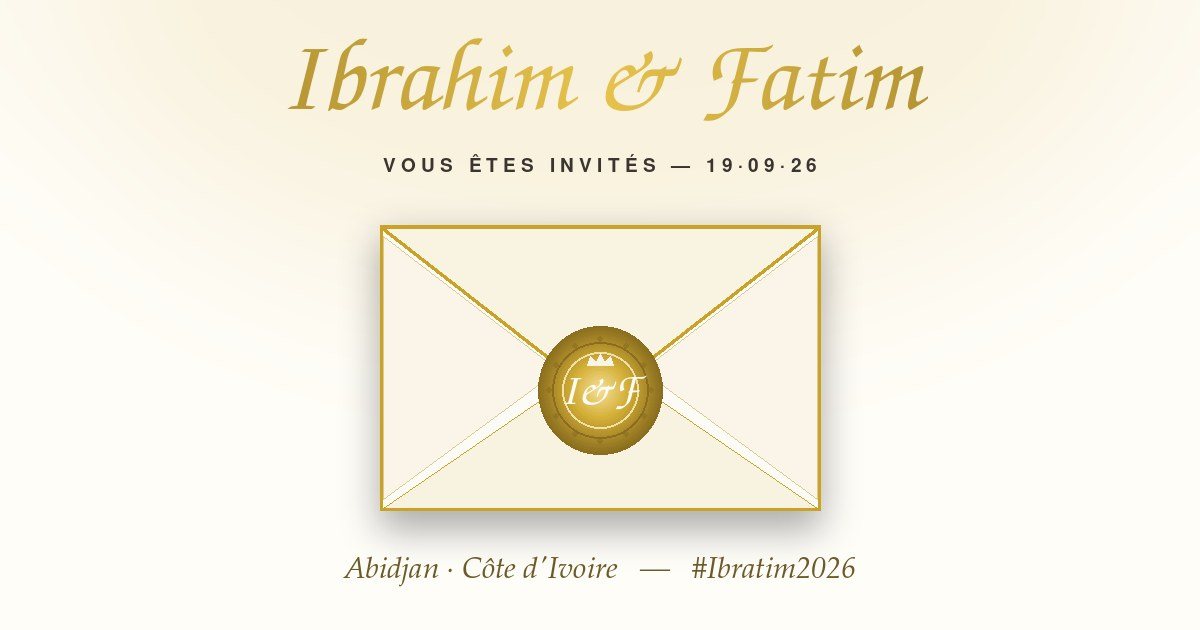
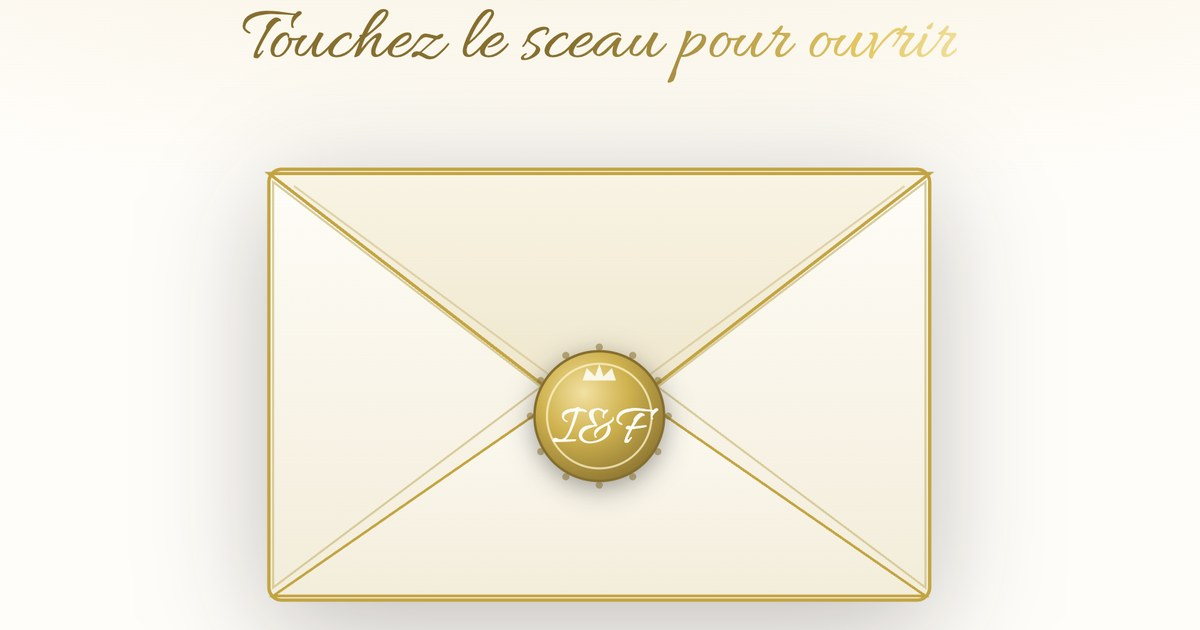
URL ibratim2026.github.io: og tags, miniature de partage, QR mis a jour (v10)

Changed region(s): [[0.185, 0.2413, 0.8017, 1.0], [0.185, 0.0, 0.8017, 0.2111]]

diff --git a/index.html b/index.html
@@ -8,11 +8,11 @@
 <!-- Aperçu lors du partage (réseaux sociaux / messageries) -->
 <meta property="og:title" content="Ibrahim &amp; Fatim — 19.09.26">
 <meta property="og:description" content="Vous êtes invités · Abidjan, Côte d'Ivoire · #Ibratim2026">
-<meta property="og:image" content="https://williamcarrierlive-pelion.github.io/ibratim2026/og-image.jpg">
+<meta property="og:image" content="https://ibratim2026.github.io/og-image.jpg">
 <meta property="og:image:width" content="1200">
 <meta property="og:image:height" content="630">
 <meta property="og:type" content="website">
-<meta property="og:url" content="https://williamcarrierlive-pelion.github.io/ibratim2026/">
+<meta property="og:url" content="https://ibratim2026.github.io/">
 <meta name="twitter:card" content="summary_large_image">
 <link rel="preconnect" href="https://fonts.googleapis.com">
 <link href="https://fonts.googleapis.com/css2?family=Allura&family=Cormorant+Garamond:ital,wght@0,400;0,500;0,600;1,400;1,500&family=Montserrat:wght@300;400;500;600&display=swap" rel="stylesheet">
@@ -628,4 +628,4 @@
 </script>
 </body>
 </html>
-<!-- v9 -->
+<!-- v10 -->

diff --git a/cartes.html b/cartes.html
@@ -150,7 +150,7 @@ Activer «&nbsp;Graphiques d'arrière-plan&nbsp;» et marges «&nbsp;Aucune&nbsp
 
   <div class="rsvp-zone">
     <div class="qr">
-      <svg viewBox="0 0 33 33" width="100%" height="100%" shape-rendering="crispEdges"><rect width="33" height="33" fill="#fff"/><path d="M0 0h1v1h-1zM1 0h1v1h-1zM2 0h1v1h-1zM3 0h1v1h-1zM4 0h1v1h-1zM5 0h1v1h-1zM6 0h1v1h-1zM9 0h1v1h-1zM12 0h1v1h-1zM13 0h1v1h-1zM16 0h1v1h-1zM19 0h1v1h-1zM20 0h1v1h-1zM23 0h1v1h-1zM26 0h1v1h-1zM27 0h1v1h-1zM28 0h1v1h-1zM29 0h1v1h-1zM30 0h1v1h-1zM31 0h1v1h-1zM32 0h1v1h-1zM0 1h1v1h-1zM6 1h1v1h-1zM9 1h1v1h-1zM13 1h1v1h-1zM14 1h1v1h-1zM15 1h1v1h-1zM16 1h1v1h-1zM18 1h1v1h-1zM20 1h1v1h-1zM21 1h1v1h-1zM26 1h1v1h-1zM32 1h1v1h-1zM0 2h1v1h-1zM2 2h1v1h-1zM3 2h1v1h-1zM4 2h1v1h-1zM6 2h1v1h-1zM8 2h1v1h-1zM10 2h1v1h-1zM12 2h1v1h-1zM13 2h1v1h-1zM15 2h1v1h-1zM16 2h1v1h-1zM18 2h1v1h-1zM20 2h1v1h-1zM21 2h1v1h-1zM22 2h1v1h-1zM24 2h1v1h-1zM26 2h1v1h-1zM28 2h1v1h-1zM29 2h1v1h-1zM30 2h1v1h-1zM32 2h1v1h-1zM0 3h1v1h-1zM2 3h1v1h-1zM3 3h1v1h-1zM4 3h1v1h-1zM6 3h1v1h-1zM8 3h1v1h-1zM10 3h1v1h-1zM11 3h1v1h-1zM12 3h1v1h-1zM14 3h1v1h-1zM15 3h1v1h-1zM16 3h1v1h-1zM17 3h1v1h-1zM18 3h1v1h-1zM20 3h1v1h-1zM22 3h1v1h-1zM23 3h1v1h-1zM24 3h1v1h-1zM26 3h1v1h-1zM28 3h1v1h-1zM29 3h1v1h-1zM30 3h1v1h-1zM32 3h1v1h-1zM0 4h1v1h-1zM2 4h1v1h-1zM3 4h1v1h-1zM4 4h1v1h-1zM6 4h1v1h-1zM8 4h1v1h-1zM9 4h1v1h-1zM11 4h1v1h-1zM12 4h1v1h-1zM13 4h1v1h-1zM15 4h1v1h-1zM19 4h1v1h-1zM21 4h1v1h-1zM23 4h1v1h-1zM26 4h1v1h-1zM28 4h1v1h-1zM29 4h1v1h-1zM30 4h1v1h-1zM32 4h1v1h-1zM0 5h1v1h-1zM6 5h1v1h-1zM8 5h1v1h-1zM9 5h1v1h-1zM12 5h1v1h-1zM14 5h1v1h-1zM15 5h1v1h-1zM16 5h1v1h-1zM17 5h1v1h-1zM18 5h1v1h-1zM21 5h1v1h-1zM26 5h1v1h-1zM32 5h1v1h-1zM0 6h1v1h-1zM1 6h1v1h-1zM2 6h1v1h-1zM3 6h1v1h-1zM4 6h1v1h-1zM5 6h1v1h-1zM6 6h1v1h-1zM8 6h1v1h-1zM10 6h1v1h-1zM12 6h1v1h-1zM14 6h1v1h-1zM16 6h1v1h-1zM18 6h1v1h-1zM20 6h1v1h-1zM22 6h1v1h-1zM24 6h1v1h-1zM26 6h1v1h-1zM27 6h1v1h-1zM28 6h1v1h-1zM29 6h1v1h-1zM30 6h1v1h-1zM31 6h1v1h-1zM32 6h1v1h-1zM8 7h1v1h-1zM9 7h1v1h-1zM11 7h1v1h-1zM12 7h1v1h-1zM15 7h1v1h-1zM18 7h1v1h-1zM19 7h1v1h-1zM21 7h1v1h-1zM22 7h1v1h-1zM23 7h1v1h-1zM0 8h1v1h-1zM2 8h1v1h-1zM3 8h1v1h-1zM4 8h1v1h-1zM5 8h1v1h-1zM6 8h1v1h-1zM9 8h1v1h-1zM10 8h1v1h-1zM11 8h1v1h-1zM13 8h1v1h-1zM14 8h1v1h-1zM15 8h1v1h-1zM17 8h1v1h-1zM22 8h1v1h-1zM23 8h1v1h-1zM24 8h1v1h-1zM26 8h1v1h-1zM27 8h1v1h-1zM28 8h1v1h-1zM29 8h1v1h-1zM30 8h1v1h-1zM2 9h1v1h-1zM5 9h1v1h-1zM8 9h1v1h-1zM9 9h1v1h-1zM11 9h1v1h-1zM12 9h1v1h-1zM16 9h1v1h-1zM18 9h1v1h-1zM19 9h1v1h-1zM20 9h1v1h-1zM21 9h1v1h-1zM23 9h1v1h-1zM26 9h1v1h-1zM27 9h1v1h-1zM29 9h1v1h-1zM30 9h1v1h-1zM32 9h1v1h-1zM1 10h1v1h-1zM2 10h1v1h-1zM3 10h1v1h-1zM4 10h1v1h-1zM6 10h1v1h-1zM7 10h1v1h-1zM10 10h1v1h-1zM12 10h1v1h-1zM15 10h1v1h-1zM17 10h1v1h-1zM18 10h1v1h-1zM20 10h1v1h-1zM24 10h1v1h-1zM25 10h1v1h-1zM28 10h1v1h-1zM30 10h1v1h-1zM1 11h1v1h-1zM4 11h1v1h-1zM5 11h1v1h-1zM8 11h1v1h-1zM9 11h1v1h-1zM14 11h1v1h-1zM15 11h1v1h-1zM18 11h1v1h-1zM21 11h1v1h-1zM25 11h1v1h-1zM28 11h1v1h-1zM29 11h1v1h-1zM30 11h1v1h-1zM32 11h1v1h-1zM0 12h1v1h-1zM1 12h1v1h-1zM5 12h1v1h-1zM6 12h1v1h-1zM7 12h1v1h-1zM8 12h1v1h-1zM9 12h1v1h-1zM10 12h1v1h-1zM12 12h1v1h-1zM15 12h1v1h-1zM17 12h1v1h-1zM18 12h1v1h-1zM19 12h1v1h-1zM20 12h1v1h-1zM22 12h1v1h-1zM23 12h1v1h-1zM24 12h1v1h-1zM25 12h1v1h-1zM28 12h1v1h-1zM29 12h1v1h-1zM31 12h1v1h-1zM32 12h1v1h-1zM3 13h1v1h-1zM4 13h1v1h-1zM9 13h1v1h-1zM10 13h1v1h-1zM11 13h1v1h-1zM14 13h1v1h-1zM15 13h1v1h-1zM16 13h1v1h-1zM17 13h1v1h-1zM19 13h1v1h-1zM22 13h1v1h-1zM23 13h1v1h-1zM24 13h1v1h-1zM26 13h1v1h-1zM29 13h1v1h-1zM31 13h1v1h-1zM32 13h1v1h-1zM2 14h1v1h-1zM6 14h1v1h-1zM8 14h1v1h-1zM11 14h1v1h-1zM12 14h1v1h-1zM14 14h1v1h-1zM20 14h1v1h-1zM21 14h1v1h-1zM22 14h1v1h-1zM25 14h1v1h-1zM26 14h1v1h-1zM27 14h1v1h-1zM31 14h1v1h-1zM1 15h1v1h-1zM5 15h1v1h-1zM8 15h1v1h-1zM9 15h1v1h-1zM11 15h1v1h-1zM13 15h1v1h-1zM14 15h1v1h-1zM16 15h1v1h-1zM18 15h1v1h-1zM20 15h1v1h-1zM21 15h1v1h-1zM22 15h1v1h-1zM23 15h1v1h-1zM25 15h1v1h-1zM26 15h1v1h-1zM27 15h1v1h-1zM28 15h1v1h-1zM29 15h1v1h-1zM30 15h1v1h-1zM0 16h1v1h-1zM6 16h1v1h-1zM7 16h1v1h-1zM8 16h1v1h-1zM10 16h1v1h-1zM12 16h1v1h-1zM13 16h1v1h-1zM14 16h1v1h-1zM16 16h1v1h-1zM17 16h1v1h-1zM19 16h1v1h-1zM22 16h1v1h-1zM23 16h1v1h-1zM24 16h1v1h-1zM25 16h1v1h-1zM27 16h1v1h-1zM28 16h1v1h-1zM32 16h1v1h-1zM0 17h1v1h-1zM1 17h1v1h-1zM2 17h1v1h-1zM7 17h1v1h-1zM8 17h1v1h-1zM10 17h1v1h-1zM11 17h1v1h-1zM16 17h1v1h-1zM18 17h1v1h-1zM19 17h1v1h-1zM20 17h1v1h-1zM21 17h1v1h-1zM23 17h1v1h-1zM25 17h1v1h-1zM26 17h1v1h-1zM27 17h1v1h-1zM29 17h1v1h-1zM30 17h1v1h-1zM32 17h1v1h-1zM0 18h1v1h-1zM3 18h1v1h-1zM4 18h1v1h-1zM5 18h1v1h-1zM6 18h1v1h-1zM8 18h1v1h-1zM11 18h1v1h-1zM14 18h1v1h-1zM15 18h1v1h-1zM16 18h1v1h-1zM17 18h1v1h-1zM24 18h1v1h-1zM27 18h1v1h-1zM28 18h1v1h-1zM30 18h1v1h-1zM31 18h1v1h-1zM0 19h1v1h-1zM1 19h1v1h-1zM2 19h1v1h-1zM5 19h1v1h-1zM9 19h1v1h-1zM12 19h1v1h-1zM13 19h1v1h-1zM15 19h1v1h-1zM16 19h1v1h-1zM18 19h1v1h-1zM19 19h1v1h-1zM21 19h1v1h-1zM26 19h1v1h-1zM27 19h1v1h-1zM28 19h1v1h-1zM29 19h1v1h-1zM30 19h1v1h-1zM31 19h1v1h-1zM32 19h1v1h-1zM0 20h1v1h-1zM5 20h1v1h-1zM6 20h1v1h-1zM7 20h1v1h-1zM8 20h1v1h-1zM9 20h1v1h-1zM10 20h1v1h-1zM12 20h1v1h-1zM16 20h1v1h-1zM17 20h1v1h-1zM18 20h1v1h-1zM22 20h1v1h-1zM23 20h1v1h-1zM24 20h1v1h-1zM27 20h1v1h-1zM28 20h1v1h-1zM29 20h1v1h-1zM31 20h1v1h-1zM32 20h1v1h-1zM0 21h1v1h-1zM1 21h1v1h-1zM3 21h1v1h-1zM4 21h1v1h-1zM8 21h1v1h-1zM9 21h1v1h-1zM10 21h1v1h-1zM11 21h1v1h-1zM15 21h1v1h-1zM17 21h1v1h-1zM18 21h1v1h-1zM19 21h1v1h-1zM20 21h1v1h-1zM21 21h1v1h-1zM23 21h1v1h-1zM26 21h1v1h-1zM29 21h1v1h-1zM30 21h1v1h-1zM32 21h1v1h-1zM0 22h1v1h-1zM3 22h1v1h-1zM4 22h1v1h-1zM5 22h1v1h-1zM6 22h1v1h-1zM7 22h1v1h-1zM8 22h1v1h-1zM10 22h1v1h-1zM11 22h1v1h-1zM13 22h1v1h-1zM15 22h1v1h-1zM16 22h1v1h-1zM18 22h1v1h-1zM20 22h1v1h-1zM25 22h1v1h-1zM27 22h1v1h-1zM29 22h1v1h-1zM31 22h1v1h-1zM0 23h1v1h-1zM2 23h1v1h-1zM3 23h1v1h-1zM4 23h1v1h-1zM5 23h1v1h-1zM8 23h1v1h-1zM9 23h1v1h-1zM12 23h1v1h-1zM13 23h1v1h-1zM14 23h1v1h-1zM15 23h1v1h-1zM21 23h1v1h-1zM22 23h1v1h-1zM24 23h1v1h-1zM25 23h1v1h-1zM26 23h1v1h-1zM29 23h1v1h-1zM30 23h1v1h-1zM0 24h1v1h-1zM2 24h1v1h-1zM3 24h1v1h-1zM4 24h1v1h-1zM6 24h1v1h-1zM7 24h1v1h-1zM8 24h1v1h-1zM11 24h1v1h-1zM13 24h1v1h-1zM14 24h1v1h-1zM15 24h1v1h-1zM17 24h1v1h-1zM19 24h1v1h-1zM20 24h1v1h-1zM22 24h1v1h-1zM23 24h1v1h-1zM24 24h1v1h-1zM25 24h1v1h-1zM26 24h1v1h-1zM27 24h1v1h-1zM28 24h1v1h-1zM32 24h1v1h-1zM8 25h1v1h-1zM10 25h1v1h-1zM12 25h1v1h-1zM17 25h1v1h-1zM19 25h1v1h-1zM20 25h1v1h-1zM21 25h1v1h-1zM24 25h1v1h-1zM28 25h1v1h-1zM30 25h1v1h-1zM32 25h1v1h-1zM0 26h1v1h-1zM1 26h1v1h-1zM2 26h1v1h-1zM3 26h1v1h-1zM4 26h1v1h-1zM5 26h1v1h-1zM6 26h1v1h-1zM11 26h1v1h-1zM12 26h1v1h-1zM14 26h1v1h-1zM15 26h1v1h-1zM16 26h1v1h-1zM17 26h1v1h-1zM21 26h1v1h-1zM23 26h1v1h-1zM24 26h1v1h-1zM26 26h1v1h-1zM28 26h1v1h-1zM30 26h1v1h-1zM31 26h1v1h-1zM0 27h1v1h-1zM6 27h1v1h-1zM8 27h1v1h-1zM9 27h1v1h-1zM11 27h1v1h-1zM14 27h1v1h-1zM15 27h1v1h-1zM16 27h1v1h-1zM19 27h1v1h-1zM21 27h1v1h-1zM22 27h1v1h-1zM23 27h1v1h-1zM24 27h1v1h-1zM28 27h1v1h-1zM29 27h1v1h-1zM30 27h1v1h-1zM31 27h1v1h-1zM0 28h1v1h-1zM2 28h1v1h-1zM3 28h1v1h-1zM4 28h1v1h-1zM6 28h1v1h-1zM8 28h1v1h-1zM12 28h1v1h-1zM13 28h1v1h-1zM15 28h1v1h-1zM18 28h1v1h-1zM22 28h1v1h-1zM24 28h1v1h-1zM25 28h1v1h-1zM26 28h1v1h-1zM27 28h1v1h-1zM28 28h1v1h-1zM29 28h1v1h-1zM32 28h1v1h-1zM0 29h1v1h-1zM2 29h1v1h-1zM3 29h1v1h-1zM4 29h1v1h-1zM6 29h1v1h-1zM8 29h1v1h-1zM11 29h1v1h-1zM15 29h1v1h-1zM16 29h1v1h-1zM18 29h1v1h-1zM19 29h1v1h-1zM20 29h1v1h-1zM21 29h1v1h-1zM22 29h1v1h-1zM23 29h1v1h-1zM24 29h1v1h-1zM25 29h1v1h-1zM28 29h1v1h-1zM31 29h1v1h-1zM32 29h1v1h-1zM0 30h1v1h-1zM2 30h1v1h-1zM3 30h1v1h-1zM4 30h1v1h-1zM6 30h1v1h-1zM8 30h1v1h-1zM11 30h1v1h-1zM12 30h1v1h-1zM17 30h1v1h-1zM21 30h1v1h-1zM26 30h1v1h-1zM27 30h1v1h-1zM29 30h1v1h-1zM30 30h1v1h-1zM0 31h1v1h-1zM6 31h1v1h-1zM13 31h1v1h-1zM16 31h1v1h-1zM18 31h1v1h-1zM20 31h1v1h-1zM21 31h1v1h-1zM22 31h1v1h-1zM25 31h1v1h-1zM26 31h1v1h-1zM28 31h1v1h-1zM29 31h1v1h-1zM30 31h1v1h-1zM0 32h1v1h-1zM1 32h1v1h-1zM2 32h1v1h-1zM3 32h1v1h-1zM4 32h1v1h-1zM5 32h1v1h-1zM6 32h1v1h-1zM8 32h1v1h-1zM11 32h1v1h-1zM13 32h1v1h-1zM17 32h1v1h-1zM20 32h1v1h-1zM22 32h1v1h-1zM23 32h1v1h-1zM24 32h1v1h-1zM26 32h1v1h-1zM27 32h1v1h-1zM29 32h1v1h-1zM31 32h1v1h-1z" fill="#0d0b08"/></svg>
+      <svg viewBox="0 0 29 29" width="100%" height="100%" shape-rendering="crispEdges"><rect width="29" height="29" fill="#fff"/><path d="M0 0h1v1h-1zM1 0h1v1h-1zM2 0h1v1h-1zM3 0h1v1h-1zM4 0h1v1h-1zM5 0h1v1h-1zM6 0h1v1h-1zM15 0h1v1h-1zM16 0h1v1h-1zM17 0h1v1h-1zM22 0h1v1h-1zM23 0h1v1h-1zM24 0h1v1h-1zM25 0h1v1h-1zM26 0h1v1h-1zM27 0h1v1h-1zM28 0h1v1h-1zM0 1h1v1h-1zM6 1h1v1h-1zM8 1h1v1h-1zM11 1h1v1h-1zM12 1h1v1h-1zM13 1h1v1h-1zM14 1h1v1h-1zM16 1h1v1h-1zM20 1h1v1h-1zM22 1h1v1h-1zM28 1h1v1h-1zM0 2h1v1h-1zM2 2h1v1h-1zM3 2h1v1h-1zM4 2h1v1h-1zM6 2h1v1h-1zM8 2h1v1h-1zM10 2h1v1h-1zM11 2h1v1h-1zM13 2h1v1h-1zM15 2h1v1h-1zM18 2h1v1h-1zM22 2h1v1h-1zM24 2h1v1h-1zM25 2h1v1h-1zM26 2h1v1h-1zM28 2h1v1h-1zM0 3h1v1h-1zM2 3h1v1h-1zM3 3h1v1h-1zM4 3h1v1h-1zM6 3h1v1h-1zM8 3h1v1h-1zM16 3h1v1h-1zM17 3h1v1h-1zM19 3h1v1h-1zM20 3h1v1h-1zM22 3h1v1h-1zM24 3h1v1h-1zM25 3h1v1h-1zM26 3h1v1h-1zM28 3h1v1h-1zM0 4h1v1h-1zM2 4h1v1h-1zM3 4h1v1h-1zM4 4h1v1h-1zM6 4h1v1h-1zM9 4h1v1h-1zM11 4h1v1h-1zM15 4h1v1h-1zM16 4h1v1h-1zM17 4h1v1h-1zM18 4h1v1h-1zM19 4h1v1h-1zM20 4h1v1h-1zM22 4h1v1h-1zM24 4h1v1h-1zM25 4h1v1h-1zM26 4h1v1h-1zM28 4h1v1h-1zM0 5h1v1h-1zM6 5h1v1h-1zM9 5h1v1h-1zM11 5h1v1h-1zM12 5h1v1h-1zM15 5h1v1h-1zM18 5h1v1h-1zM20 5h1v1h-1zM22 5h1v1h-1zM28 5h1v1h-1zM0 6h1v1h-1zM1 6h1v1h-1zM2 6h1v1h-1zM3 6h1v1h-1zM4 6h1v1h-1zM5 6h1v1h-1zM6 6h1v1h-1zM8 6h1v1h-1zM10 6h1v1h-1zM12 6h1v1h-1zM14 6h1v1h-1zM16 6h1v1h-1zM18 6h1v1h-1zM20 6h1v1h-1zM22 6h1v1h-1zM23 6h1v1h-1zM24 6h1v1h-1zM25 6h1v1h-1zM26 6h1v1h-1zM27 6h1v1h-1zM28 6h1v1h-1zM8 7h1v1h-1zM10 7h1v1h-1zM14 7h1v1h-1zM15 7h1v1h-1zM16 7h1v1h-1zM18 7h1v1h-1zM19 7h1v1h-1zM20 7h1v1h-1zM0 8h1v1h-1zM6 8h1v1h-1zM8 8h1v1h-1zM16 8h1v1h-1zM17 8h1v1h-1zM21 8h1v1h-1zM22 8h1v1h-1zM25 8h1v1h-1zM26 8h1v1h-1zM27 8h1v1h-1zM0 9h1v1h-1zM1 9h1v1h-1zM2 9h1v1h-1zM4 9h1v1h-1zM5 9h1v1h-1zM7 9h1v1h-1zM8 9h1v1h-1zM13 9h1v1h-1zM16 9h1v1h-1zM19 9h1v1h-1zM21 9h1v1h-1zM23 9h1v1h-1zM24 9h1v1h-1zM26 9h1v1h-1zM27 9h1v1h-1zM0 10h1v1h-1zM3 10h1v1h-1zM4 10h1v1h-1zM6 10h1v1h-1zM8 10h1v1h-1zM10 10h1v1h-1zM11 10h1v1h-1zM12 10h1v1h-1zM13 10h1v1h-1zM14 10h1v1h-1zM15 10h1v1h-1zM16 10h1v1h-1zM23 10h1v1h-1zM24 10h1v1h-1zM3 11h1v1h-1zM7 11h1v1h-1zM9 11h1v1h-1zM10 11h1v1h-1zM12 11h1v1h-1zM13 11h1v1h-1zM19 11h1v1h-1zM20 11h1v1h-1zM24 11h1v1h-1zM25 11h1v1h-1zM0 12h1v1h-1zM1 12h1v1h-1zM2 12h1v1h-1zM4 12h1v1h-1zM5 12h1v1h-1zM6 12h1v1h-1zM7 12h1v1h-1zM9 12h1v1h-1zM10 12h1v1h-1zM11 12h1v1h-1zM13 12h1v1h-1zM15 12h1v1h-1zM16 12h1v1h-1zM20 12h1v1h-1zM22 12h1v1h-1zM23 12h1v1h-1zM28 12h1v1h-1zM0 13h1v1h-1zM2 13h1v1h-1zM3 13h1v1h-1zM10 13h1v1h-1zM11 13h1v1h-1zM16 13h1v1h-1zM18 13h1v1h-1zM19 13h1v1h-1zM22 13h1v1h-1zM23 13h1v1h-1zM24 13h1v1h-1zM27 13h1v1h-1zM28 13h1v1h-1zM0 14h1v1h-1zM2 14h1v1h-1zM3 14h1v1h-1zM4 14h1v1h-1zM6 14h1v1h-1zM7 14h1v1h-1zM8 14h1v1h-1zM10 14h1v1h-1zM11 14h1v1h-1zM17 14h1v1h-1zM18 14h1v1h-1zM21 14h1v1h-1zM22 14h1v1h-1zM25 14h1v1h-1zM26 14h1v1h-1zM0 15h1v1h-1zM1 15h1v1h-1zM3 15h1v1h-1zM4 15h1v1h-1zM7 15h1v1h-1zM8 15h1v1h-1zM9 15h1v1h-1zM11 15h1v1h-1zM15 15h1v1h-1zM18 15h1v1h-1zM19 15h1v1h-1zM21 15h1v1h-1zM22 15h1v1h-1zM24 15h1v1h-1zM26 15h1v1h-1zM28 15h1v1h-1zM1 16h1v1h-1zM2 16h1v1h-1zM3 16h1v1h-1zM4 16h1v1h-1zM5 16h1v1h-1zM6 16h1v1h-1zM8 16h1v1h-1zM12 16h1v1h-1zM16 16h1v1h-1zM17 16h1v1h-1zM18 16h1v1h-1zM20 16h1v1h-1zM23 16h1v1h-1zM25 16h1v1h-1zM26 16h1v1h-1zM0 17h1v1h-1zM4 17h1v1h-1zM5 17h1v1h-1zM8 17h1v1h-1zM9 17h1v1h-1zM10 17h1v1h-1zM12 17h1v1h-1zM13 17h1v1h-1zM14 17h1v1h-1zM17 17h1v1h-1zM18 17h1v1h-1zM19 17h1v1h-1zM22 17h1v1h-1zM23 17h1v1h-1zM24 17h1v1h-1zM26 17h1v1h-1zM27 17h1v1h-1zM28 17h1v1h-1zM0 18h1v1h-1zM1 18h1v1h-1zM2 18h1v1h-1zM4 18h1v1h-1zM6 18h1v1h-1zM9 18h1v1h-1zM10 18h1v1h-1zM11 18h1v1h-1zM12 18h1v1h-1zM15 18h1v1h-1zM19 18h1v1h-1zM20 18h1v1h-1zM23 18h1v1h-1zM25 18h1v1h-1zM28 18h1v1h-1zM0 19h1v1h-1zM3 19h1v1h-1zM7 19h1v1h-1zM10 19h1v1h-1zM11 19h1v1h-1zM12 19h1v1h-1zM13 19h1v1h-1zM18 19h1v1h-1zM19 19h1v1h-1zM21 19h1v1h-1zM24 19h1v1h-1zM0 20h1v1h-1zM3 20h1v1h-1zM6 20h1v1h-1zM8 20h1v1h-1zM9 20h1v1h-1zM10 20h1v1h-1zM14 20h1v1h-1zM15 20h1v1h-1zM17 20h1v1h-1zM20 20h1v1h-1zM21 20h1v1h-1zM22 20h1v1h-1zM23 20h1v1h-1zM24 20h1v1h-1zM26 20h1v1h-1zM27 20h1v1h-1zM28 20h1v1h-1zM8 21h1v1h-1zM9 21h1v1h-1zM11 21h1v1h-1zM14 21h1v1h-1zM17 21h1v1h-1zM18 21h1v1h-1zM19 21h1v1h-1zM20 21h1v1h-1zM24 21h1v1h-1zM25 21h1v1h-1zM0 22h1v1h-1zM1 22h1v1h-1zM2 22h1v1h-1zM3 22h1v1h-1zM4 22h1v1h-1zM5 22h1v1h-1zM6 22h1v1h-1zM9 22h1v1h-1zM10 22h1v1h-1zM12 22h1v1h-1zM18 22h1v1h-1zM19 22h1v1h-1zM20 22h1v1h-1zM22 22h1v1h-1zM24 22h1v1h-1zM25 22h1v1h-1zM26 22h1v1h-1zM0 23h1v1h-1zM6 23h1v1h-1zM9 23h1v1h-1zM12 23h1v1h-1zM14 23h1v1h-1zM15 23h1v1h-1zM16 23h1v1h-1zM20 23h1v1h-1zM24 23h1v1h-1zM28 23h1v1h-1zM0 24h1v1h-1zM2 24h1v1h-1zM3 24h1v1h-1zM4 24h1v1h-1zM6 24h1v1h-1zM9 24h1v1h-1zM10 24h1v1h-1zM11 24h1v1h-1zM13 24h1v1h-1zM14 24h1v1h-1zM16 24h1v1h-1zM19 24h1v1h-1zM20 24h1v1h-1zM21 24h1v1h-1zM22 24h1v1h-1zM23 24h1v1h-1zM24 24h1v1h-1zM25 24h1v1h-1zM0 25h1v1h-1zM2 25h1v1h-1zM3 25h1v1h-1zM4 25h1v1h-1zM6 25h1v1h-1zM9 25h1v1h-1zM10 25h1v1h-1zM11 25h1v1h-1zM12 25h1v1h-1zM13 25h1v1h-1zM14 25h1v1h-1zM17 25h1v1h-1zM18 25h1v1h-1zM25 25h1v1h-1zM26 25h1v1h-1zM27 25h1v1h-1zM0 26h1v1h-1zM2 26h1v1h-1zM3 26h1v1h-1zM4 26h1v1h-1zM6 26h1v1h-1zM9 26h1v1h-1zM12 26h1v1h-1zM13 26h1v1h-1zM15 26h1v1h-1zM16 26h1v1h-1zM17 26h1v1h-1zM22 26h1v1h-1zM23 26h1v1h-1zM24 26h1v1h-1zM25 26h1v1h-1zM26 26h1v1h-1zM27 26h1v1h-1zM0 27h1v1h-1zM6 27h1v1h-1zM9 27h1v1h-1zM11 27h1v1h-1zM12 27h1v1h-1zM13 27h1v1h-1zM15 27h1v1h-1zM19 27h1v1h-1zM22 27h1v1h-1zM23 27h1v1h-1zM24 27h1v1h-1zM25 27h1v1h-1zM26 27h1v1h-1zM28 27h1v1h-1zM0 28h1v1h-1zM1 28h1v1h-1zM2 28h1v1h-1zM3 28h1v1h-1zM4 28h1v1h-1zM5 28h1v1h-1zM6 28h1v1h-1zM8 28h1v1h-1zM9 28h1v1h-1zM10 28h1v1h-1zM12 28h1v1h-1zM13 28h1v1h-1zM17 28h1v1h-1zM18 28h1v1h-1zM21 28h1v1h-1zM22 28h1v1h-1zM26 28h1v1h-1z" fill="#0d0b08"/></svg>
     </div>
     <div class="rsvp-texte">
       <div class="etq">RSVP</div>